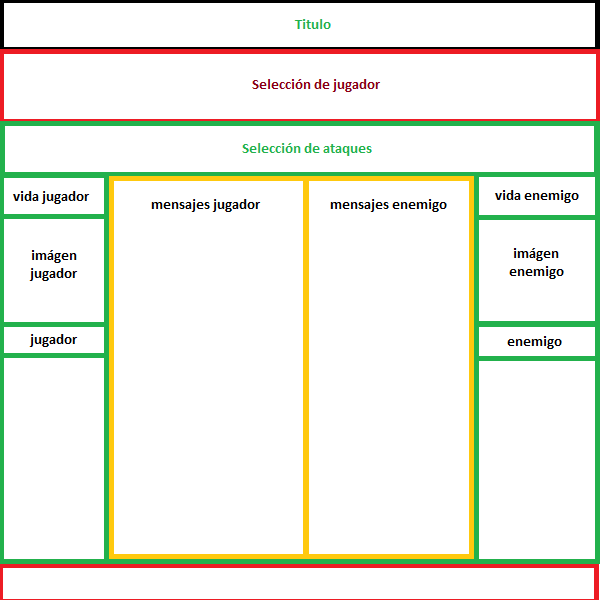
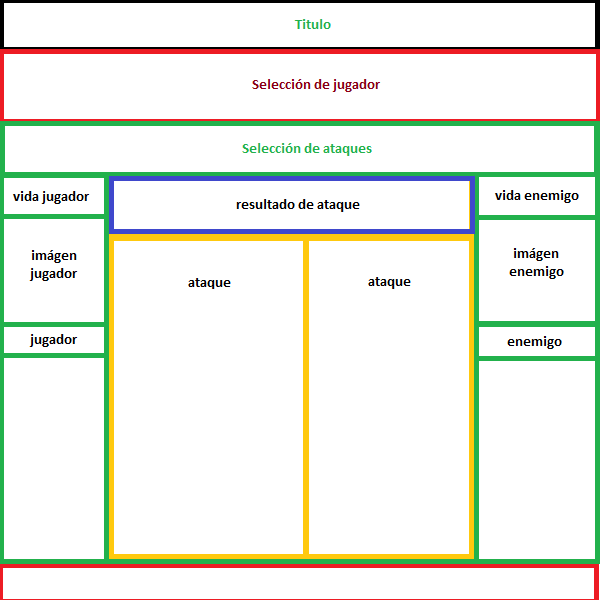
Rediseño sección player-selection.

Changed region(s): [[0.18, 0.27, 0.81, 0.42], [0.6, 0.45, 0.69, 0.48], [0.3, 0.45, 0.39, 0.48]]

diff --git a/03-guerreros/dungeon-combat.html b/03-guerreros/dungeon-combat.html
@@ -7,8 +7,9 @@
     <meta name="viewport" content="width=device-width, initial-scale=1.0">
     <title>Guerreros</title>
     <link rel="stylesheet" href="css/styles.css">
-<!--     <script src="js/code.js"></script>
- --></head>
+    <script src="js/code.js"></script>
+
+</head>
 
 <body>
 
@@ -18,7 +19,7 @@
             <h1 class="title">¡Dungeon Combat!</h1>
         </header>
 
-        <section id="player-selection">
+        <section id="sec-player-selection">
 
             <h2 class="subtitle">Elige a tu guerrero:</h2>
 
@@ -46,11 +47,13 @@
                 <button id="btn-select">Seleccionar</button>
             </p>
 
-            <p id="warning-message"></p>
+            <p id="p-warning-message">
+                Debes seleccionar un guerrero para luchar
+            </p>
 
         </section>
 
-        <section id="combat">
+        <section id="sec-attack-selection">
 
             <h2 class="subtitle">Elige tu ataque:</h2>
 
@@ -58,6 +61,18 @@
                 <button id="btn-mele" class="attack-button">Cuerpo a cuerpo 💪</button>
                 <button id="btn-range" class="attack-button">Rango 💨</button>
                 <button id="btn-magic" class="attack-button">Magia 🔥</button>
+            </div>
+
+        </section>
+
+        <section id="sec-combat">
+
+            <div id="div-messages">
+                <p id="p-result"></p>
+
+                <section id="sec-reset">
+                    <button id="btn-reset">Reiniciar</button>
+                </section>
             </div>
 
         </section>

diff --git a/03-guerreros/js/code.js b/03-guerreros/js/code.js
@@ -48,6 +48,7 @@ function select_warrior() {
     let rd_mage = document.getElementById("rd-mage")
     let spn_player = document.getElementById("spn-player")
     let player_image = document.getElementById("player-image")
+    let p_warning_message = document.getElementById("p-warning-message")
     let warrior_selected = ""
 
     if (rd_knight.checked) {
@@ -60,7 +61,7 @@ function select_warrior() {
         warrior_selected = "Mago"
         player_image.src ="./images/mage.png"
     } else {
-        alert("Debes seleccionar un guerrero para luchar")
+        p_warning_message.style.display = "block"
         return // Salir de la función.
     }
     // Mostrar el jugador elegido.
@@ -281,11 +282,14 @@ function init() {
     btn_reset.addEventListener("click", reset_game)
     btn_reset.style.display = "none"
     
-    let sec_attack = document.getElementById("sec-attack")
-    sec_attack.style.display = "none"
+    let sec_attack_selection = document.getElementById("sec-attack-selection")
+    sec_attack_selection.style.display = "none"
 
     let div_messages = document.getElementById("div-messages")
     div_messages.style.display = "none"
+
+    let p_warning_message = document.getElementById("p-warning-message")
+    p_warning_message.style.display = "none"
 }
 
 

diff --git a/03-guerreros/css/styles.css b/03-guerreros/css/styles.css
@@ -99,6 +99,15 @@ input:checked + label {
     color: #3F4E4F;
 }
 
+#p-warning-message {
+    font-size: larger;
+    color:crimson;
+    background-color: #DCD7C9;
+    border-radius: 5px;
+    padding: 10px;
+    text-align: center;
+    width: 400px;}
+
 #sec-attack {
     flex-direction: column;
     align-items: center;
